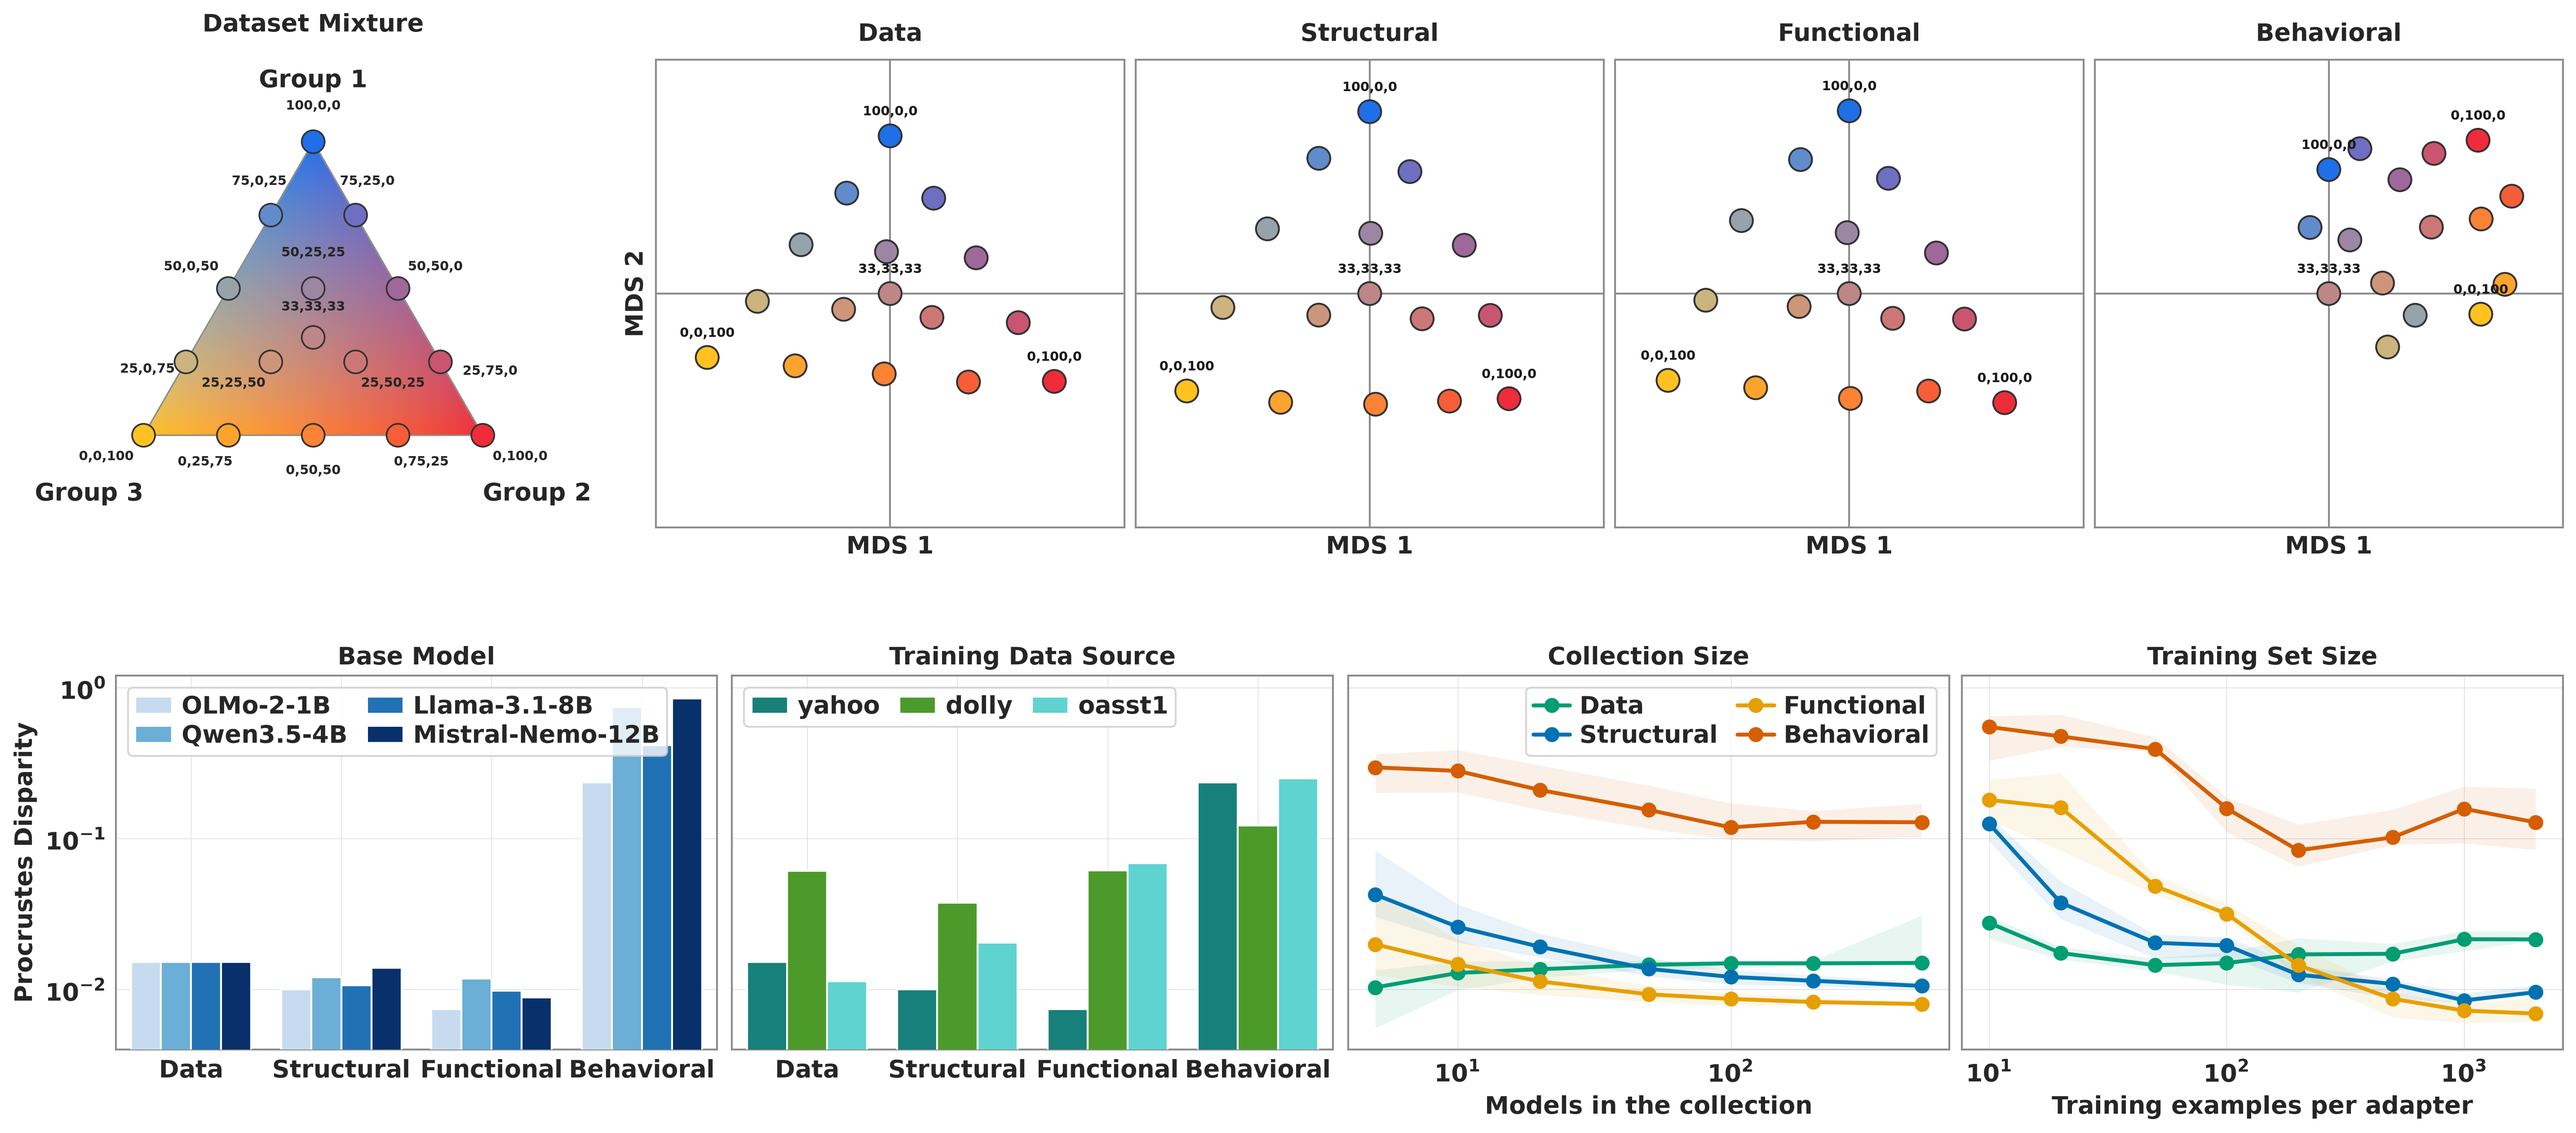
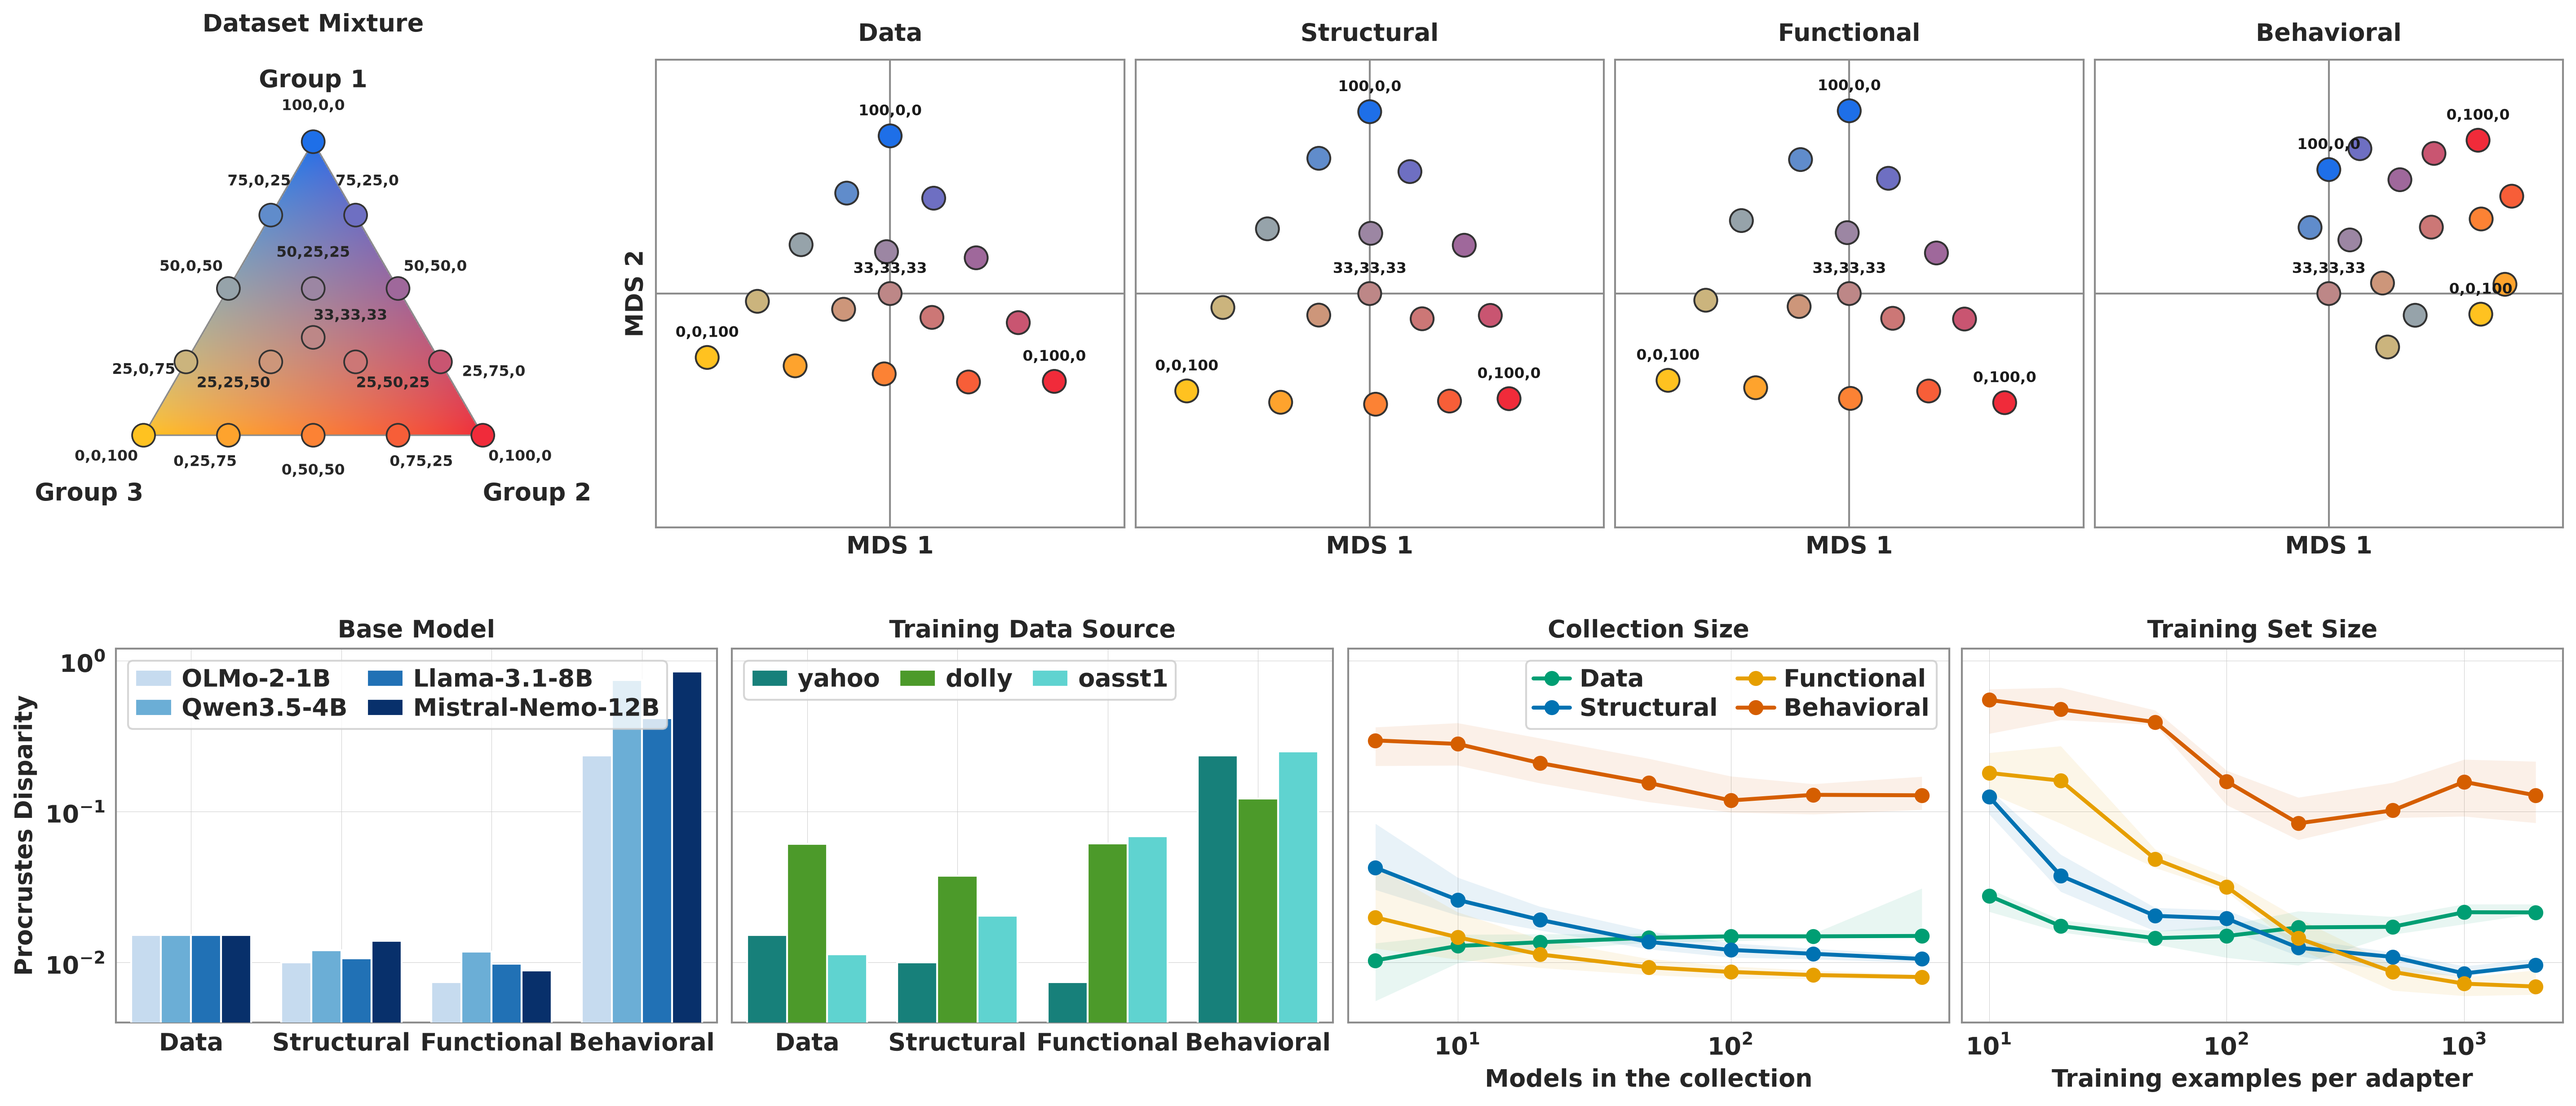
fix(simplex): give the centre mixture the emptiest direction, not a fixed one
Its radius from the centroid is zero, so it was nudged straight up --
through the neighbour above it, landing under that neighbour's label and
reading as a second label for it. Scan for the direction with the most
room instead. Carries the tree's ROW_GAP=0.4 and MIXTURE_LABEL_SIZE=8.

Claude-Session: https://claude.ai/code/session_013wT22QHA98vYoz6C7ZiiGN

diff --git a/src/plots/simplex.py b/src/plots/simplex.py
@@ -453,6 +453,26 @@ def _in_simplex_frame(coords: np.ndarray, model_ids: Sequence[str]) -> np.ndarra
         return np.asarray(coords, dtype=float)
 
 
+def _open_direction(pts: np.ndarray, i: int) -> np.ndarray:
+    """The unit direction out of ``pts[i]`` with the most room around it.
+
+    Scanned rather than derived: a probe is placed one nearest-neighbour step
+    out along each of 180 angles, and the angle whose probe sits furthest from
+    every *other* point wins. Used for a point whose radius from the centroid is
+    zero, which has no natural direction of its own.
+    """
+    others = np.delete(pts, i, axis=0)
+    if not len(others):
+        return np.array([0.0, 1.0])
+    step = float(np.min(np.linalg.norm(others - pts[i], axis=1)))
+    ang = np.linspace(0.0, 2 * np.pi, 180, endpoint=False)
+    dirs = np.column_stack([np.cos(ang), np.sin(ang)])
+    probes = pts[i] + dirs * step
+    room = np.min(np.linalg.norm(probes[:, None, :] - others[None, :, :], axis=2),
+                  axis=1)
+    return dirs[int(np.argmax(room))]
+
+
 def _spread_labels(ax, anns, dirs, pts, marker_size, fixed=(),
                    step: float = 2.0, max_extra: float = 60.0) -> None:
     """Push annotated labels out along their own radii until nothing overlaps.
@@ -605,13 +625,16 @@ def ternary_legend(
         if label_models:
             # Push each label away from the centroid along its own radius. A
             # fixed (3, 3) offset stacks the labels of the four points that share
-            # a row of the grid; a radial one fans them out, and the centre point
-            # (whose radius is zero) is nudged straight up.
+            # a row of the grid; a radial one fans them out. The centre point has
+            # no radius to push along, so it gets the emptiest direction instead
+            # -- pushing it along a fixed one walks it straight through whichever
+            # neighbour happens to lie that way, and it ends up reading as that
+            # neighbour's label.
             mid_xy = _bary_to_xy(np.array([1 / 3, 1 / 3, 1 / 3]))[0]
-            for (x, y), mid in zip(pts, model_ids):
+            for i, ((x, y), mid) in enumerate(zip(pts, model_ids)):
                 d = np.array([x, y]) - mid_xy
                 n = np.linalg.norm(d)
-                unit = (d / n) if n > 1e-9 else np.array([0.0, 0.85])
+                unit = (d / n) if n > 1e-9 else _open_direction(pts, i)
                 mix_dirs.append(unit)
                 mix_anns.append(ax.annotate(
                     label_fmt(mid), xy=(x, y), xytext=tuple(unit * label_offset),

diff --git a/figures/figure2/make_figures.py b/figures/figure2/make_figures.py
@@ -247,7 +247,7 @@ FONT_SIZE = 13
 #: they crowd the configuration they are there to explain. One value for all of
 #: them -- the same text saying the same thing in five panels -- and it is the
 #: size the densest of those panels can carry.
-MIXTURE_LABEL_SIZE = 7
+MIXTURE_LABEL_SIZE = 8
 
 #: The names of the two axes every top-row panel is drawn in.
 MDS_AXES = ("MDS 1", "MDS 2")
@@ -595,7 +595,7 @@ YLABEL = "Procrustes Disparity"
 #: It is spent as a blank spacer row in the outer grid, not as the constrained
 #: layout's ``hspace``: each row here is a *nested* gridspec, and the engine's
 #: ``hspace`` is inert across a nesting boundary -- setting it moves nothing.
-ROW_GAP = 0.6
+ROW_GAP = 0.4
 
 #: Shared y range for the whole bottom row, per scale. Fixed rather than fitted
 #: so any two builds of this figure — the ``--behavioral`` and ``--yscale``
